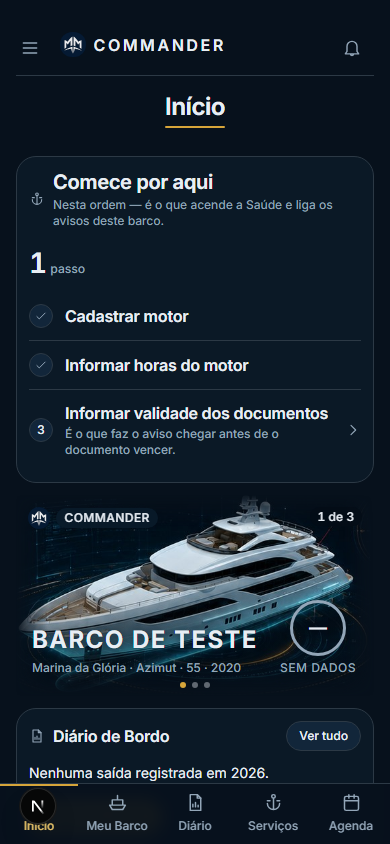
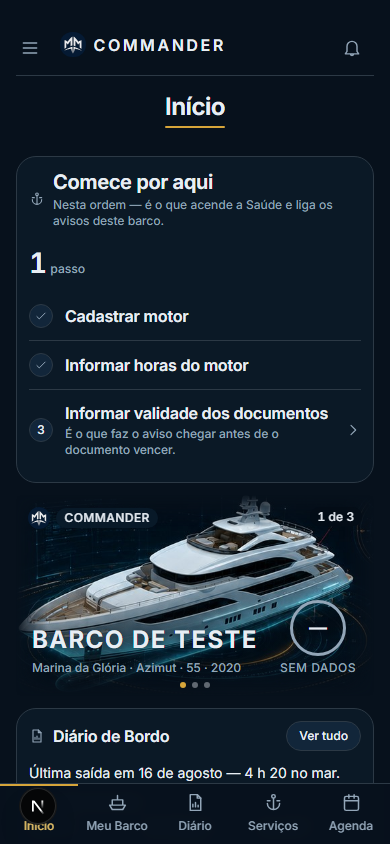
feat(onda 122): Diário de Bordo na anatomia da imagem 5 — linha do tempo, barco sem moldura
Pedido do dono (20/08): "o diário de bordo... conseguimos refinar essa
página e chegar na perfeição para o usuário visualizar".

- O barco do topo perde a moldura: a imagem 5 do guia desenha o iate
  FLUTUANDO sobre o fundo, sem caixa — mesma resposta da Início ("a linha
  do card não deve existir"). A máscara de bordas esvaídas saiu do style
  inline do carrossel e virou classe da casa (.mascara-borda-esvaida em
  globals.css); o trilho do carrossel deixou de vestir .rolagem-lateral
  (máscara aninhada sem função) e esconde a barra de rolagem por conta.
- O feed vira LINHA DO TEMPO: medalhão circular com o ícone do tipo, ligado
  ao vizinho por um fio de 1px — ouro só na saída (a atividade), vermelho só
  na avaria (semântico), o resto neutro; seis cores empilhadas seria o
  "zoneado" que o redesign veio matar (§5, escopo de cor).
- Cada cartão ganha o cartucho "data · tipo" na cor do tipo ("16/08 ·
  Navegação"), o título desce pra segunda linha e o chevron fecha a linha só
  na saída — o único cartão que navega. A data sai do canto direito.
- tituloDoRegistro para de repetir o tipo que o cartucho já diz:
  "Abastecimento — Diesel, 180 L" virou "Diesel, 180 L"; sem descrição, o
  equipamento responde; só sem os dois sobra o rótulo. Parâmetro `tipo`
  removido (existia só pro caso especial). Testes atualizados junto.
- e2e: o barco de teste nasce com 5 registros (saída com e sem GPS,
  abastecimento, avaria, manutenção) em dois meses, e /diario entrou na
[…]

Changed region(s): [[0.0615, 0.8934, 0.8615, 0.9242]]

diff --git a/web/app/(app)/diario/page.tsx b/web/app/(app)/diario/page.tsx
@@ -109,20 +109,17 @@ export default async function DiarioPage({
     <main>
       <h1 className="titulo-pagina">Diário de Bordo</h1>
 
-      {/* ONDA 118 — O BARCO ABRE O DIÁRIO, como na imagem 5 do guia: a tela
-          de Diário de lá tem a embarcação em 3D no topo, antes dos filtros e
-          da linha do tempo. A cena é a MESMA do hub Casco (`ObjetoHub`),
-          pintada em `--dado` (o azul-aço de série) e não na cor do hub: aqui
-          o barco não é o hub Casco, é o protagonista do Diário — usar o âmbar
-          do Casco diria "isto é sobre estrutura", e é sobre navegar.
-          `h-28` e não os 176px do herói de hub: a imagem 5 desenha o objeto
-          MENOR nas telas operacionais ("elementos 3D nestas telas são menores
-          e de apoio; nunca competem com dados e tarefas", §9 do guia). */}
-      {/* ONDA 119 — o render do iate holográfico (recorte da imagem 1, ver
-          `objeto-hub.tsx`) no lugar da cena desenhada: é literalmente o barco
-          que a imagem 5 põe no topo do Diário. */}
-      <div aria-hidden="true" className="raio-painel relative mt-4 h-32 overflow-hidden border border-line bg-panel">
-        <ObjetoHub chave="iate" className="h-full w-full" />
+      {/* ONDA 118 — O BARCO ABRE O DIÁRIO, como na imagem 5 do guia; onda 119
+          pôs o render do iate holográfico no lugar da cena desenhada.
+          ONDA 122 — A MOLDURA CAI. A imagem 5 não desenha caixa nenhuma em
+          volta do barco: ele FLUTUA sobre o fundo da tela. A borda + painel
+          que este bloco vestia era exatamente a "linha do card" que o dono
+          mandou não existir na Início — mesmo pedido, mesma resposta: a
+          máscara de bordas esvaídas (`mascara-borda-esvaida`, globals.css).
+          `h-36` e não os 176px de herói de hub: §9 do guia — o objeto nas
+          telas operacionais é menor e de apoio, nunca compete com os dados. */}
+      <div aria-hidden="true" className="mascara-borda-esvaida relative mt-2 h-36">
+        <ObjetoHub chave="iate" className="h-full w-full !rounded-none" />
       </div>
       {/* A frase de baixo do título é a do canvas (tela-3a): diz de uma vez o
           que mora aqui, pra primeira visita não precisar deduzir do filtro. */}
@@ -191,7 +188,13 @@ export default async function DiarioPage({
       {grupos.map((g) => (
         <section key={g.rotulo}>
           <SecaoPagina>{g.rotulo}</SecaoPagina>
-          <div className="flex flex-col gap-2">
+          {/* ONDA 122 — o FIO da linha do tempo: um traço de 1px atrás da
+              coluna de medalhões (centro do círculo de 36px = 18px), ligando
+              os registros do mês como a imagem 5 desenha. `top-2/bottom-4`
+              param o fio no primeiro e no último medalhão em vez de vazar
+              pelas pontas da lista. */}
+          <div className="relative flex flex-col gap-2">
+            <span aria-hidden="true" className="absolute bottom-4 left-[18px] top-2 w-px bg-line" />
             {g.eventos.map((e) => {
               const eq = e.equipamento_id ? porId.get(e.equipamento_id) : null
               const urlAnexo = e.anexo_path ? urlsAnexo.get(e.id) : null
@@ -233,30 +236,26 @@ export default async function DiarioPage({
                 : ""
               const titulo = ehSaida
                 ? tituloDaSaida(e.local_saida, e.destino) ?? TIPO_ROTULO[e.tipo]
-                : tituloDoRegistro(e.tipo, TIPO_ROTULO[e.tipo] ?? e.tipo, e.descricao, eq ? nomeDoEquipamento(eq) : null)
+                : tituloDoRegistro(TIPO_ROTULO[e.tipo] ?? e.tipo, e.descricao, eq ? nomeDoEquipamento(eq) : null)
+              // ONDA 122 — O CARTÃO GANHA A ANATOMIA DA IMAGEM 5 DO GUIA:
+              // a primeira linha é o CARTUCHO "data · tipo" (a imagem escreve
+              // "18 ago 2026 · Navegação" em cima de cada registro, na cor do
+              // tipo), o título vem na segunda, e o chevron fecha a linha SÓ
+              // na saída — que é o único cartão que navega; chevron em cartão
+              // que não abre nada seria promessa quebrada. O ícone que morava
+              // aqui desceu pro MEDALHÃO da linha do tempo, ao lado do cartão.
+              // A data sai do canto direito: dentro de um grupo que já se
+              // chama "Agosto", "18/08" à esquerda conta a mesma história sem
+              // disputar a borda com o chevron.
+              const corDoTipo = ehSaida ? "text-accent-forte" : e.tipo === "avaria" ? "text-crit" : "text-dim"
               const conteudo = (
                 <>
-                  <div className="flex items-center gap-2">
-                    {/* ONDA 92 (eixo 1.1 da auditoria de 19/08) — A PASTILHA DE
-                        30px ERA QUEM MANDAVA NA ALTURA DA PRIMEIRA LINHA.
-                        O título de uma linha mede 20,25px (`.titulo-card`,
-                        15px × 1,35); a pastilha media 30. Ou seja: 10px por
-                        cartão gastos numa moldura decorativa que repetia o que
-                        o título já diz ("Docagem" com o ícone de âncora).
-                        Ícone de 20px na linha do título entrega a mesma
-                        leitura e devolve os 10px.
-                        O dourado da saída — "a atividade, o coração do feed" —
-                        continua, agora no traço em vez de num fundo: mesma
-                        distinção, uma superfície dourada a menos por cartão
-                        num feed que empilha dezenas deles. */}
-                    <Icone
-                      nome={ICONE_TIPO[e.tipo] ?? "mais"}
-                      className={`size-5 shrink-0 ${ehSaida ? "text-accent-forte" : "text-dim"}`}
-                    />
+                  <p className={`rotulo-dado tabular-nums ${corDoTipo}`}>
+                    {formatarDataCurta(e.data)} · {TIPO_ROTULO[e.tipo] ?? e.tipo}
+                  </p>
+                  <div className="mt-0.5 flex items-center gap-2">
                     <p className="titulo-card min-w-0 flex-1 line-clamp-2">{titulo}</p>
-                    <span className="shrink-0 tabular-nums text-xs tabular-nums text-dim">
-                      {formatarDataCurta(e.data)}
-                    </span>
+                    {ehSaida && <Icone nome="chevron" className="size-4 shrink-0 text-dim" />}
                   </div>
                   {ehSaida && (
                     /* ONDA 93 — A FILEIRA VOLTA PRA CASA. Estas três pílulas
@@ -382,15 +381,44 @@ export default async function DiarioPage({
               // não dentro dela) OU alinhamento ao topo, pra ícone e data não
               // flutuarem no meio de um bloco de três linhas. Prop nova em
               // componente de outro dono — vai no relatório, não aqui.
-              const casca = "block rounded-[var(--raio-cartao)] border border-line bg-panel p-3 sombra-1"
-              return ehSaida ? (
-                <Link key={e.id} href={`/diario/${e.id}`} className={casca}>
-                  {conteudo}
-                </Link>
-              ) : (
-                <div key={e.id} className={casca}>
-                  {conteudo}
-                </div>
+              //
+              // (Nota da onda 122: a conta acima descreve o cartão ANTES da
+              // linha do tempo — ícone e data moravam na linha do título. O
+              // cartucho "data · tipo" acrescenta ~15px por cartão e o
+              // medalhão come 48px de largura; o preço está medido na prova
+              // visual da onda, e a régua das alternativas descartadas segue
+              // valendo: fileira de chips a 390px continua no limite.)
+              // ONDA 122 — O MEDALHÃO DA LINHA DO TEMPO (imagem 5): o círculo
+              // com o ícone do tipo, ligado ao vizinho pelo fio que a `<div>`
+              // do grupo desenha atrás. A cor obedece a régua do feed: ouro só
+              // na saída (a atividade), vermelho só na avaria (semântico), o
+              // resto neutro — a imagem pinta cada tipo de uma cor, mas seis
+              // cores empilhadas era exatamente o "zoneado" que o redesign
+              // veio matar; escopo de cor é a regra da casa (§5).
+              // `bg-panel2` opaco de propósito: é quem esconde o fio na
+              // passagem por trás do círculo.
+              const casca = "block min-w-0 flex-1 rounded-[var(--raio-cartao)] border border-line bg-panel p-3 sombra-1"
+              const corMedalhao = ehSaida
+                ? "border-accent/40 text-accent-forte"
+                : e.tipo === "avaria"
+                  ? "border-crit/40 text-crit"
+                  : "border-line text-dim"
+              return (
+                <article key={e.id} className="flex gap-3">
+                  <span
+                    aria-hidden="true"
+                    className={`relative z-[1] mt-1.5 flex size-9 shrink-0 items-center justify-center rounded-full border bg-panel2 ${corMedalhao}`}
+                  >
+                    <Icone nome={ICONE_TIPO[e.tipo] ?? "mais"} className="size-4" />
+                  </span>
+                  {ehSaida ? (
+                    <Link href={`/diario/${e.id}`} className={casca}>
+                      {conteudo}
+                    </Link>
+                  ) : (
+                    <div className={casca}>{conteudo}</div>
+                  )}
+                </article>
               )
             })}
           </div>

diff --git a/web/e2e/global-setup.ts b/web/e2e/global-setup.ts
@@ -125,6 +125,48 @@ export default async function globalSetup(config: FullConfig) {
       capa ??= destino
     }
     if (capa) await admin.from("embarcacoes").update({ foto_capa_path: capa }).eq("id", barco.id)
+    // DIÁRIO DE BORDO (onda 122). A prova visual fotografava um Diário
+    // eternamente vazio — o estado que NÃO é o da tela (linha do tempo,
+    // medalhões, cartucho de tipo). Cinco registros em dois meses cobrem os
+    // ramos que importam: saída com GPS e sem GPS, abastecimento, avaria
+    // (medalhão vermelho) e manutenção com custo + horímetro. Datas fixas,
+    // não relativas: a prova compara capturas entre rodadas, e um feed que
+    // muda de mês sozinho viraria diff perpétuo. Morrem com o usuário no
+    // teardown (cascade via embarcação).
+    await admin.from("eventos").insert([
+      {
+        embarcacao_id: barco.id, tipo: "navegacao", data: "2026-08-16",
+        local_saida: "Marina da Glória", destino: "Ilhas Cagarras",
+        hora_saida: "09:30", hora_retorno: "13:50", distancia_nm: 14.2,
+        mar_onda_m: 0.8, mar_vento_kt: 12, tripulacao: [], passageiros: ["Ana", "Pedro"],
+        importado_do_plotter: false, trilha_sem_horario: false, criado_por: criado.user.id,
+      },
+      {
+        embarcacao_id: barco.id, tipo: "abastecimento", data: "2026-08-12",
+        descricao: "Diesel, 180 L", custo_centavos: 68000,
+        tripulacao: [], passageiros: [], importado_do_plotter: false, trilha_sem_horario: false,
+        criado_por: criado.user.id,
+      },
+      {
+        embarcacao_id: barco.id, tipo: "navegacao", data: "2026-07-27",
+        local_saida: "Marina da Glória", destino: "Itaipu",
+        hora_saida: "10:00", hora_retorno: "16:20",
+        tripulacao: [], passageiros: ["Marcos"],
+        importado_do_plotter: false, trilha_sem_horario: false, criado_por: criado.user.id,
+      },
+      {
+        embarcacao_id: barco.id, tipo: "avaria", data: "2026-07-19",
+        descricao: "Bomba de porão sem partida",
+        tripulacao: [], passageiros: [], importado_do_plotter: false, trilha_sem_horario: false,
+        criado_por: criado.user.id,
+      },
+      {
+        embarcacao_id: barco.id, tipo: "manutencao", data: "2026-07-10",
+        descricao: "Troca de óleo e filtros", custo_centavos: 240000, horas_no_momento: 605,
+        tripulacao: [], passageiros: [], importado_do_plotter: false, trilha_sem_horario: false,
+        criado_por: criado.user.id,
+      },
+    ])
     console.log("[e2e] embarcação de teste semeada.")
   }
 

diff --git a/web/lib/domain/bordo.ts b/web/lib/domain/bordo.ts
@@ -93,23 +93,28 @@ export function tituloDaSaida(localSaida: string | null, destino: string | null)
 
 /**
  * O titulo de um registro NAO-saida no feed (canvas tela-3a: "Troca de
- * impelidor — Motor BB", "Abastecimento — 320 L"): o verbo no titulo, como
- * a nota do canvas pede — a descricao digitada vira o titulo, com o
- * equipamento atras; abastecimento mantem o rotulo do tipo na frente
- * porque a descricao dele e quantidade ("320 L"), nao verbo. Sem descricao,
- * sobra o rotulo do tipo — nunca titulo inventado.
+ * impelidor — Motor BB"): a descricao digitada vira o titulo, com o
+ * equipamento atras.
+ *
+ * ONDA 122 — O TITULO PAROU DE REPETIR O TIPO. O cartao do feed ganhou o
+ * cartucho "data · tipo" da imagem 5 do guia ("12/08 · Abastecimento"), e
+ * com ele os dois casos que escreviam o rotulo do tipo no titulo viraram
+ * eco: "Abastecimento — 320 L" embaixo de "Abastecimento" e a mesma
+ * redundancia dos subtitulos que o dono mandou cortar. Agora a descricao
+ * fica sozinha; sem descricao, o equipamento responde ("Motor BE"); so sem
+ * os dois e que sobra o rotulo do tipo — o cartao precisa de UM titulo, e
+ * nesse caso degenerado o eco e menos ruim que um vazio. Nunca titulo
+ * inventado. (O parametro `tipo` saiu junto: so existia pro caso especial
+ * do abastecimento.)
  */
 export function tituloDoRegistro(
-  tipo: string,
   rotuloTipo: string,
   descricao: string | null,
   nomeEquipamento: string | null,
 ): string {
-  const sufixo = nomeEquipamento ? ` — ${nomeEquipamento}` : ""
   const texto = descricao?.trim() || null
-  if (!texto) return `${rotuloTipo}${sufixo}`
-  if (tipo === "abastecimento") return `${rotuloTipo} — ${texto}`
-  return `${texto.charAt(0).toUpperCase()}${texto.slice(1)}${sufixo}`
+  if (texto) return `${texto.charAt(0).toUpperCase()}${texto.slice(1)}${nomeEquipamento ? ` — ${nomeEquipamento}` : ""}`
+  return nomeEquipamento ?? rotuloTipo
 }
 
 /**

diff --git a/web/app/globals.css b/web/app/globals.css
@@ -650,6 +650,28 @@ body.fundo-tela-mapa [data-bottom-nav] {
     mask-image: linear-gradient(to right, #000 calc(100% - 20px), transparent 100%);
   }
 
+  /* ONDA 122 — BORDAS ESVAÍDAS, agora classe da casa. Nasceu no carrossel da
+     Início (pedido do dono: "a linha do card não deve existir... como se as
+     bordas fossem diminuindo a opacidade") e o Diário usa o MESMO contorno no
+     barco do topo — a imagem 5 do guia desenha o iate flutuando sobre o
+     fundo, sem caixa. Na segunda tela a assinatura deixou de ser de uma peça
+     e virou vocabulário; por isso saiu do `style` inline e entrou aqui.
+     Dois gradientes lineares compostos por INTERSEÇÃO, e não um radial: o
+     radial derrete as diagonais muito antes das laterais e come os cantos da
+     imagem; a interseção esvai 32px uniformes em cada uma das quatro bordas.
+     `black`/`transparent` por extenso porque máscara só tem canal alfa —
+     isto não é cor pintada. */
+  .mascara-borda-esvaida {
+    -webkit-mask-image:
+      linear-gradient(to right, transparent, black 32px, black calc(100% - 32px), transparent),
+      linear-gradient(to bottom, transparent, black 32px, black calc(100% - 32px), transparent);
+    -webkit-mask-composite: source-in;
+    mask-image:
+      linear-gradient(to right, transparent, black 32px, black calc(100% - 32px), transparent),
+      linear-gradient(to bottom, transparent, black 32px, black calc(100% - 32px), transparent);
+    mask-composite: intersect;
+  }
+
   /* Escala tipográfica — 4 vozes, nada abaixo de 11px.
      Onda 57 — a nav inferior (components/bottom-nav.tsx) teve, até aqui,
      exceção documentada rodando a 9.5px: 5 abas dividem 375px em 75px cada,

diff --git a/web/components/carrossel-barco.tsx b/web/components/carrossel-barco.tsx
@@ -56,25 +56,17 @@ export function CarrosselBarco({
 
   return (
     <section aria-label={`Fotos de ${nomeBarco}`} className="relative">
-      <div
-        className="relative"
-        style={{
-          /* `black`/`transparent` por extenso: numa máscara só o CANAL ALFA
-             existe — isto não é cor pintada, e hex aqui gastaria o teto do
-             guardião de tokens com um valor que nunca aparece na tela. */
-          maskImage:
-            "linear-gradient(to right, transparent, black 32px, black calc(100% - 32px), transparent), linear-gradient(to bottom, transparent, black 32px, black calc(100% - 32px), transparent)",
-          maskComposite: "intersect",
-          WebkitMaskImage:
-            "linear-gradient(to right, transparent, black 32px, black calc(100% - 32px), transparent), linear-gradient(to bottom, transparent, black 32px, black calc(100% - 32px), transparent)",
-          WebkitMaskComposite: "source-in",
-        }}
-      >
+      {/* `mascara-borda-esvaida` (app/globals.css) — nasceu aqui na onda 120
+          e virou classe da casa na 122, quando o Diário passou a usar o mesmo
+          contorno no barco do topo. O trilho NÃO veste `rolagem-lateral`: a
+          máscara de borda direita dela, aninhada nesta, só duplicaria o fade. */}
+      <div className="mascara-borda-esvaida relative">
         <div
           ref={trilhoRef}
           onScroll={aoRolar}
           tabIndex={0}
-          className="rolagem-lateral flex snap-x snap-mandatory overflow-x-auto"
+          className="flex snap-x snap-mandatory overflow-x-auto"
+          style={{ scrollbarWidth: "none" }}
         >
           {urls.map((url, i) => (
             <img

diff --git a/web/lib/domain/bordo.test.ts b/web/lib/domain/bordo.test.ts
@@ -64,16 +64,18 @@ describe("tituloDaSaida", () => {
 
 describe("tituloDoRegistro", () => {
   it("a descricao digitada vira o titulo, com o equipamento atras", () => {
-    expect(tituloDoRegistro("manutencao", "Manutenção", "troca de impelidor", "Motor BB"))
+    expect(tituloDoRegistro("Manutenção", "troca de impelidor", "Motor BB"))
       .toBe("Troca de impelidor — Motor BB")
   })
-  it("abastecimento mantem o rotulo na frente: a descricao dele e quantidade, nao verbo", () => {
-    expect(tituloDoRegistro("abastecimento", "Abastecimento", "320 L", null))
-      .toBe("Abastecimento — 320 L")
+  // Onda 122: o cartucho do cartao ja diz "Abastecimento" — o titulo
+  // repetindo o tipo era a mesma redundancia dos subtitulos que o dono
+  // mandou cortar. A descricao fica sozinha.
+  it("o titulo nao repete o tipo que o cartucho ja diz", () => {
+    expect(tituloDoRegistro("Abastecimento", "320 L", null)).toBe("320 L")
   })
-  it("sem descricao, sobra o rotulo do tipo — nunca titulo inventado", () => {
-    expect(tituloDoRegistro("avaria", "Avaria", null, null)).toBe("Avaria")
-    expect(tituloDoRegistro("docagem", "Docagem", "  ", "Motor BE")).toBe("Docagem — Motor BE")
+  it("sem descricao, o equipamento responde; sem os dois, sobra o rotulo do tipo — nunca titulo inventado", () => {
+    expect(tituloDoRegistro("Avaria", null, null)).toBe("Avaria")
+    expect(tituloDoRegistro("Docagem", "  ", "Motor BE")).toBe("Motor BE")
   })
 })
 

diff --git a/web/e2e/_prova-visual.spec.ts b/web/e2e/_prova-visual.spec.ts
@@ -37,6 +37,7 @@ const TELAS: { rota: string; nome: string }[] = [
   { rota: "/barco/manutencoes", nome: "13-hub-manutencoes" },
   // Onda 114 — a Agenda virou calendário-primeiro (imagem 5 do guia).
   { rota: "/agenda", nome: "14-agenda" },
+  { rota: "/diario", nome: "15-diario" },
 ]
 
 // Onda 7 — a pasta sai por variável pra o MESMO comando gravar o "antes" e o
